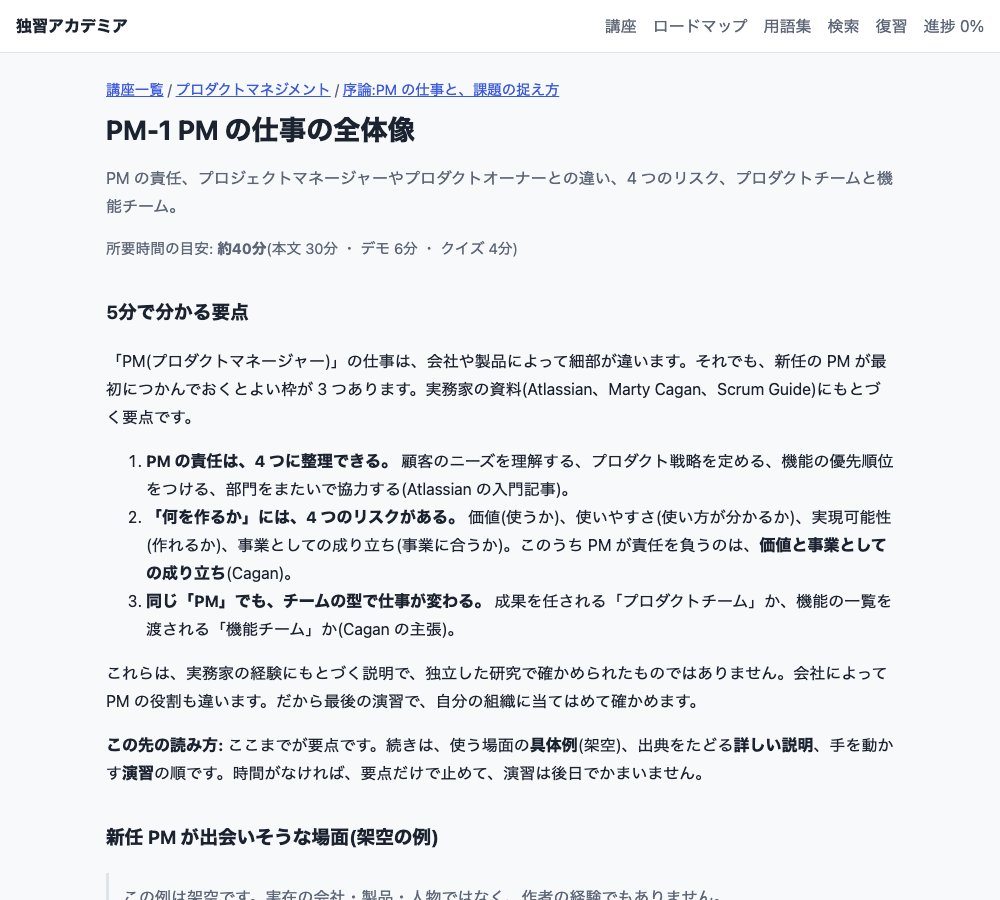
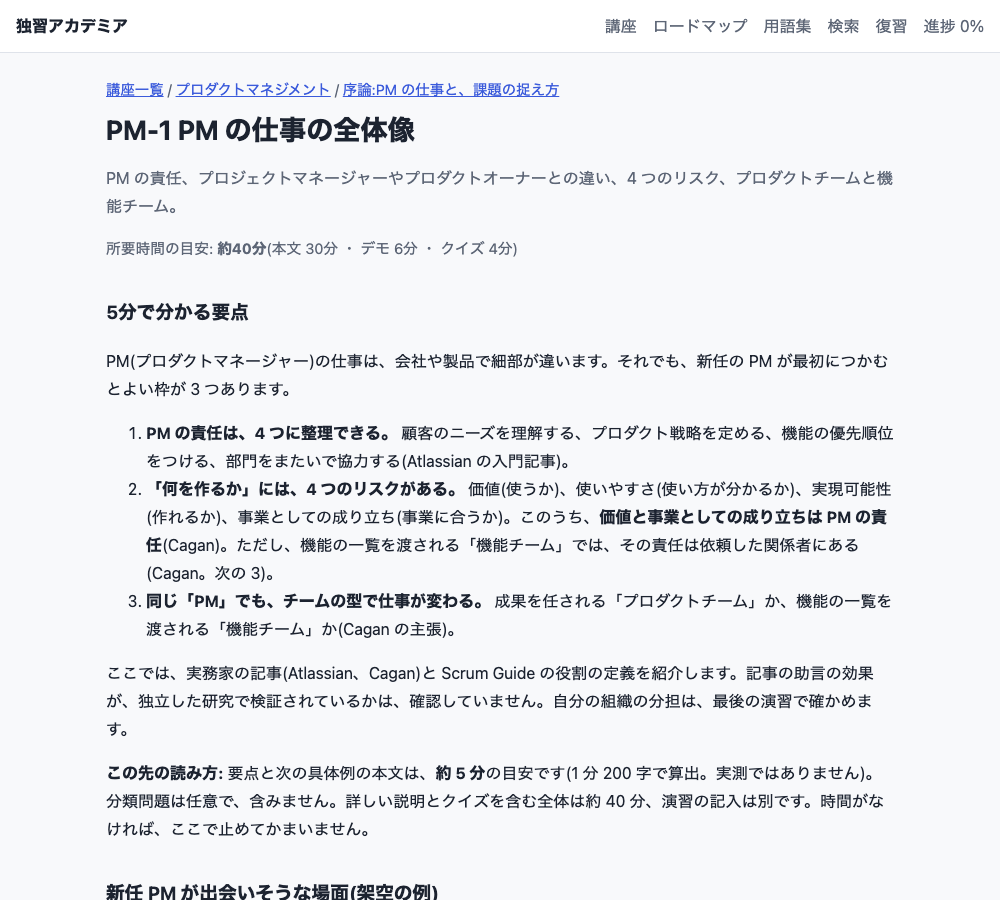
PM-1: Codex のレビューの指摘 1〜6 に対応する
限界の書き方、機能チームでの責任分担の条件、Q1 と Q3 の見直し、5分の範囲の説明、
折りたたみの可視性の検査、回答例の最初の一手を直した。確認日は据え置き。

Changed region(s): [[0.093, 0.7156, 0.899, 1.0], [0.093, 0.3733, 0.899, 0.6533]]

diff --git a/src/content/pm-1.md b/src/content/pm-1.md
@@ -1,25 +1,25 @@
 ### 5分で分かる要点
 
-「PM(プロダクトマネージャー)」の仕事は、会社や製品によって細部が違います。それでも、新任の PM が最初につかんでおくとよい枠が 3 つあります。実務家の資料(Atlassian、Marty Cagan、Scrum Guide)にもとづく要点です。
+PM(プロダクトマネージャー)の仕事は、会社や製品で細部が違います。それでも、新任の PM が最初につかむとよい枠が 3 つあります。
 
 1. **PM の責任は、4 つに整理できる。** 顧客のニーズを理解する、プロダクト戦略を定める、機能の優先順位をつける、部門をまたいで協力する(Atlassian の入門記事)。
-2. **「何を作るか」には、4 つのリスクがある。** 価値(使うか)、使いやすさ(使い方が分かるか)、実現可能性(作れるか)、事業としての成り立ち(事業に合うか)。このうち PM が責任を負うのは、**価値と事業としての成り立ち**(Cagan)。
+2. **「何を作るか」には、4 つのリスクがある。** 価値(使うか)、使いやすさ(使い方が分かるか)、実現可能性(作れるか)、事業としての成り立ち(事業に合うか)。このうち、**価値と事業としての成り立ちは PM の責任**(Cagan)。ただし、機能の一覧を渡される「機能チーム」では、その責任は依頼した関係者にある(Cagan。次の 3)。
 3. **同じ「PM」でも、チームの型で仕事が変わる。** 成果を任される「プロダクトチーム」か、機能の一覧を渡される「機能チーム」か(Cagan の主張)。
 
-これらは、実務家の経験にもとづく説明で、独立した研究で確かめられたものではありません。会社によって PM の役割も違います。だから最後の演習で、自分の組織に当てはめて確かめます。
+ここでは、実務家の記事(Atlassian、Cagan)と Scrum Guide の役割の定義を紹介します。記事の助言の効果が、独立した研究で検証されているかは、確認していません。自分の組織の分担は、最後の演習で確かめます。
 
-**この先の読み方:** ここまでが要点です。続きは、使う場面の**具体例**(架空)、出典をたどる**詳しい説明**、手を動かす**演習**の順です。時間がなければ、要点だけで止めて、演習は後日でかまいません。
+**この先の読み方:** 要点と次の具体例の本文は、**約 5 分**の目安です(1 分 200 字で算出。実測ではありません)。分類問題は任意で、含みません。詳しい説明とクイズを含む全体は約 40 分、演習の記入は別です。時間がなければ、ここで止めてかまいません。
 
 ### 新任 PM が出会いそうな場面(架空の例)
 
-> この例は架空です。実在の会社・製品・人物ではなく、作者の経験でもありません。
+> この例は架空です。実在の会社・人物・作者の経験ではありません。
 
 架空の請求書サービス「ミライ請求」に、PM として着任した週、次の 4 つが届きます。
 
-1. 営業部長から:「大口の顧客が CSV 出力を欲しがっている。次の四半期に入れてほしい」
-2. デザイナーから:「設定画面は、初めての人には迷いやすい」
-3. リードエンジニアから:「その機能は、今の基盤だと 3 か月かかる」
-4. 経営から:「その機能を有料プランに入れて、利益は出るのか」
+1. 営業部長:「大口の顧客が CSV 出力を欲しがっている。次の四半期に入れて」
+2. デザイナー:「設定画面は、初めての人には迷いやすい」
+3. リードエンジニア:「今の基盤だと、その機能は 3 か月かかる」
+4. 経営:「その機能を有料プランに入れて、利益は出るのか」
 
 ```component classify
 {
@@ -36,7 +36,7 @@
 }
 ```
 
-Cagan の分担では、1 と 4 が PM の責任、2 がデザイナー、3 がリードエンジニアの責任です。(責任の所在の整理で、PM が 2 と 3 に関わらない、という意味ではありません。これは、このサービスの補足です。)新任の PM は、1 の「依頼」をそのまま作る前に、**顧客が本当に必要とすること**に言い直します。方法は[PM-2](/lesson/pm-2)で学びます。
+Cagan の分担(プロダクトチームの場合)では、1 と 4 が PM、2 がデザイナー、3 がリードエンジニアの責任です。PM が 2 と 3 に関わらない、という意味ではありません(このサービスの補足)。1 の依頼は、作る前に、顧客が本当に必要とすることに言い直してみるとよいでしょう(このサービスの提案。方法は[PM-2](/lesson/pm-2))。
 
 ### 詳しい説明1:PM の責任(Atlassian の入門記事)
 
@@ -137,7 +137,7 @@ Cagan は、数として最も多いのは**デリバリーチーム**(プロダ
 | 2. リスク | 価値:営業部長と PM の両方で、はっきりしない。使いやすさ:デザイナー。実現可能性:リードエンジニア。事業の成り立ち:経営(PM は数字を見られない)。 |
 | 3. 型 | 先月は、機能 6 件と日付の一覧を渡された。測られるのは、期日どおりに出したか。機能チームに近い。 |
 | 4. 学び | 発見の時間は予定にない。試作品を顧客に見せたことはない。分からない:出したあと、機能が使われたかを見る仕組みがあるか。 |
-| 5. 最初の一手 | 営業部長に、直近 3 件の依頼の背景にある、顧客の困りごとを聞く。経営に、収益の数字を見られるかを聞く。 |
+| 5. 最初の一手 | 営業部長に、直近 3 件の依頼の背景にある、顧客の困りごとを聞く。(経営に収益の数字を見られるかを聞くのは、次の一手。) |
 
 別の組織なら、こう変わりえます。
 
@@ -168,14 +168,15 @@ Cagan は、数として最も多いのは**デリバリーチーム**(プロダ
 ```component quiz
 [
   {
-    "question": "架空の「ミライ請求」で、営業部長が「大口の顧客のために CSV 出力を付けてほしい」と依頼しました。Cagan の整理で、PM が最初に向き合うリスクとして、最も適切なものは、どれですか?",
+    "question": "「その顧客は、CSV 出力を本当に必要とし、使い続けるだろうか」という問いは、Cagan の 4 つのリスクのどれに当たりますか?(架空の「ミライ請求」で、営業部長が依頼した場面)",
     "choices": [
-      "その顧客は、CSV 出力を本当に必要とし、使い続けるか(価値のリスク)",
-      "設定画面の操作は、初めての人に分かりやすいか(使いやすさのリスク)",
-      "今の基盤で、CSV 出力を作れるか(実現可能性のリスク)"
+      "使いやすさのリスク",
+      "実現可能性のリスク",
+      "価値のリスク",
+      "事業としての成り立ちのリスク"
     ],
-    "answer": 0,
-    "explanation": "依頼の背景にある必要を確かめるのは、価値のリスクです。PM は価値と事業の成り立ちに責任を負います。使いやすさはデザイナー、実現可能性はリードエンジニアの責任です。"
+    "answer": 2,
+    "explanation": "顧客が買う、または使うことを選ぶか、という価値のリスクです。使いやすさは、利用者が使い方を理解できるか、実現可能性は、持っている時間・技能・技術で作れるか、事業としての成り立ちは、販売経路や収益化など事業の側面に合うか、を問います。"
   },
   {
     "question": "あるチームは、優先順位つきの機能の一覧と日付を渡され、期日どおりに出せたかで測られます。価値と事業の成り立ちの責任は、機能を依頼した関係者にあります。Cagan の区別では、このチームの型は、どれに近いですか?",
@@ -190,21 +191,21 @@ Cagan は、数として最も多いのは**デリバリーチーム**(プロダ
   {
     "question": "営業部長が、プロダクトオーナーに相談せず、バックログの順序を自分で書き換えました。Scrum Guide の考え方では、バックログを変えたい人は、どうしますか?",
     "choices": [
-      "多数決で順序を決める",
-      "開発者に頼んで、先に作ってもらう",
-      "プロダクトオーナーを説得しようとする(決めるのはプロダクトオーナー)"
+      "プロダクトオーナーを説得しようとする",
+      "関係者の多数決で順序を決め直す",
+      "開発者に頼んで、先に作ってもらう"
     ],
-    "answer": 2,
-    "explanation": "プロダクトオーナーは 1 人で、委員会ではなく、組織の全体がその決定を尊重する必要があります。バックログを変えたい人は、プロダクトオーナーを説得しようとします。"
+    "answer": 0,
+    "explanation": "バックログを変えたい人は、プロダクトオーナーを説得しようとします。決めるのはプロダクトオーナーです。プロダクトオーナーは 1 人で、委員会ではなく、組織の全体がその決定を尊重する必要があります。"
   },
   {
     "question": "「この機能は、そもそも誰の、どんな困りごとのためか(なぜ)」を主に問うのは、Atlassian の記事の比較では、どちらですか?",
     "choices": [
       "プロジェクトマネージャー",
-      "プロダクトマネージャー",
-      "どちらも同じである"
+      "どちらも同じである",
+      "プロダクトマネージャー"
     ],
-    "answer": 1,
+    "answer": 2,
     "explanation": "プロダクトマネージャーの焦点は「何を」と「なぜ」、プロジェクトマネージャーの焦点は「どうやって」と「いつ」です。"
   },
   {

diff --git a/docs/pilot/pm-1.md b/docs/pilot/pm-1.md
@@ -39,16 +39,17 @@ PM-1 の変更前は、クイズ 4 問すべての正解が 1 番目だった。
 4. 演習:自分の組織で、PM の責任を書き出す(5 つの問い、回答例、自己評価の観点)
 5. この講座の出典と限界
 
-出典の主張は、変更前に別のエージェントが照合した範囲(`docs/verify/pm-1.md`)から、足していない。新しく足したのは、架空の場面、演習、回答例、自己評価の観点、場面を使うクイズで、すべてこのサービスの整理と明記した。
+出典の主張は、変更前に別のエージェントが照合した範囲(`docs/verify/pm-1.md`)から、足していない(レビュー後の修正で、機能チームでは価値・事業の責任が依頼した関係者にある、という Cagan(2019)の記述を、要点にも書いた)。新しく足したのは、架空の場面、演習、回答例、自己評価の観点、場面を使うクイズで、すべてこのサービスの整理と明記した。
 
 ### 「5分」の根拠
-- 算出: `src/data/search-index.json` の PM-1 の最初の 2 節(要点と具体例)の本文は 1,037 字。アプリの式(1 分 200 字)で **約 5.2 分**。節ごとでは、要点 2.9 分、具体例 2.3 分。
+- 算出: `src/data/search-index.json` の PM-1 の最初の 2 節(要点と具体例)の本文は 1,059 字(要点 629 字、具体例 430 字)。アプリの式(1 分 200 字)で **約 5.3 分**。
 - **実測ではない。** 利用者が読む時間は測っていない。式の値は仮のもの。
+- **分類問題の設問・選択肢・操作の時間は含まない。** 同じ式(デモ 1 つ 3 分)で、具体例の分類問題を足すと約 8 分(Codex のレビューの指摘)。教材の冒頭にも、この範囲と、算出方法(1 分 200 字、未実測)、分類問題は任意で含まないこと、全体は約 40 分で演習の記入は別であることを書いた。
 - `e2e/pm.spec.ts` に、この 2 節が 1,100 字(5.5 分)以内であることの検査を足した。
 - 演習の記入の時間は、式に含まれない。
 
 ### 全体の時間は増えた
-アプリの所要時間の目安は、29 分から **約 40 分**(本文 30 分、デモ 6 分、クイズ 4 分)に増えた。要点だけで止められるようにしたが、演習などを足したので、レッスン全体は長くなった。要点と全体の時間を分けて見せる表示は、共通機能として、別 Issue で提案する。
+アプリの所要時間の目安は、29 分から **約 40 分**(本文 30 分、デモ 6 分、クイズ 4 分)に増えた。レビューでは、試作として許容できる、短く読む範囲が明確で、そこで止められることが重要、とされた。要点だけで止められるようにしたが、演習などを足したので、レッスン全体は長くなった。要点と全体の時間を分けて見せる表示は、共通機能として、別 Issue で提案する。
 
 ### 検証
 - 型・出典・既存テスト: Node 22 で、`npx tsc --noEmit`、`npm run typecheck:e2e`、`npm run build`(索引の生成と出典の検査を含む)、`npx playwright test`(931 件成功、3 件はスキップ)。
@@ -63,3 +64,19 @@ PM-1 の変更前は、クイズ 4 問すべての正解が 1 番目だった。
 - 目的別の入口
 - 他の PM 講座への展開と、同じ架空のプロダクトを使う演習
 - 利用者(転職・異動で学び直している数人)による PM-1 の検証(要点を自分の言葉で説明できるか、持ち帰れるものができたか、翌週も読みたいか)。募集や連絡は、この作業の対象外
+
+## 5. Codex のレビューへの対応(2026-10-13、対象コミット a7a8b4e)
+
+| # | 指摘 | 重さ | 対応 |
+|---|---|---|---|
+| 1 | 「独立した研究で確かめられたものではありません」は、研究がないという断定になる | 必須 | **修正**。「記事の助言の効果が、独立した研究で検証されているかは、確認していません」とし、紹介するものが、実務家の記事と Scrum Guide の役割の定義であることを分けて書いた |
+| 2 | Q1 が、出典にない「最初に向き合うリスク」を正解にしている。責任分担に、機能チームでは違う、という条件が要る | 必須 | **修正**。Q1 を、問いがどのリスクに当たるかの分類問題にした(選択肢は 4 リスク)。要点の 2 に、機能チームでは、価値・事業の責任は依頼した関係者にある(Cagan 2019)と補い、具体例の分担にも「プロダクトチームの場合」を付けた。「新任の PM は…言い直します」の言い切りは、このサービスの提案と明記した。Cagan の記事 2 本を元の URL から取得して確かめた(下記) |
+| 3 | 「5分」の範囲と算出方法を、教材画面にも示す | 望ましい | **対応**。冒頭に、約 5 分の目安(1 分 200 字、未実測)、分類問題は任意で含まない、全体は約 40 分、演習の記入は別、と書いた。字数は 1,059 字(約 5.3 分)に整えた |
+| 4 | Q3 の正解だけが長く、括弧で決定権まで説明している | 望ましい | **対応**。選択肢を 15・16・18 字にそろえ、「決めるのはプロダクトオーナー」は解説に移した。正解の位置は、3 番目・2 番目・1 番目・3 番目・2 番目(1 番目 1、2 番目 2、3 番目 2)にした |
+| 5 | 折りたたみのテストが、隠れた本文も拾う | 望ましい | **修正**。回答例の表が、閉じている間は `toBeHidden()`、開くと `toBeVisible()` であることを検査する |
+| 6 | 「最初の一手」の回答例が二つある | 任意 | **対応**。営業部長への確認を 1 つ目とし、経営への確認は「次の一手」と書いた |
+
+### Cagan の記事の確認(今回、実際に取得した範囲)
+- The Four Big Risks(https://www.svpg.com/four-big-risks/): 価値と事業の成り立ちを PM の責任とする記述があり、条件(権限を与えられたチームなど)は付いていない。どのリスクを最初に扱うかの順序も定めていない。早い段階で、特に価値と事業のリスクに取り組む、という趣旨の記述はある。
+- Product vs Feature Teams(https://www.svpg.com/product-vs-feature-teams/): プロダクトチームでは PM が価値と事業の成り立ちに責任を負い、機能チームでは、その責任は機能を依頼した関係者にある。
+- 取得は、ページを要約するツールを通したもので、全文を精読したものではない。出典の記録(`lesson-sources.json`)の確認日(2026-10-10)と確認状況は、更新していない。
